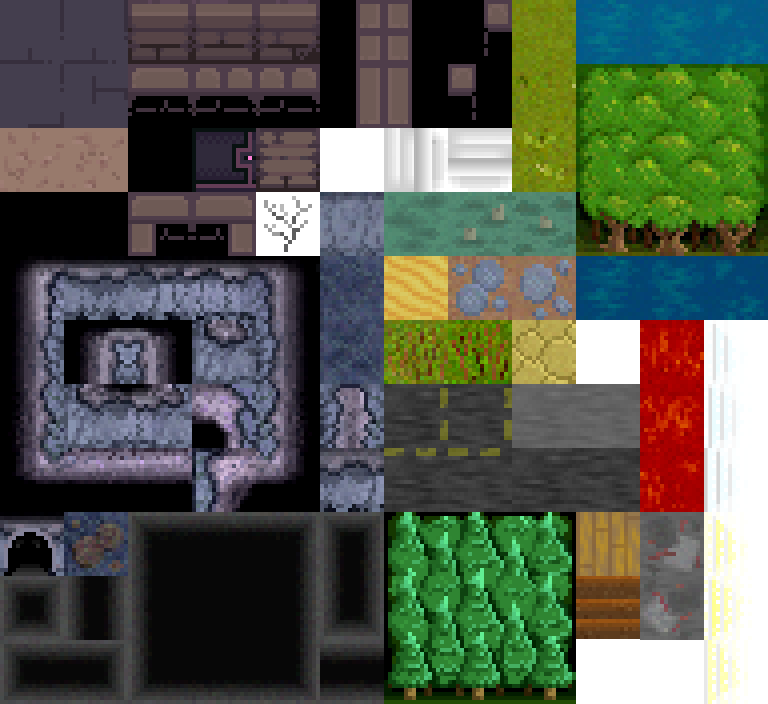
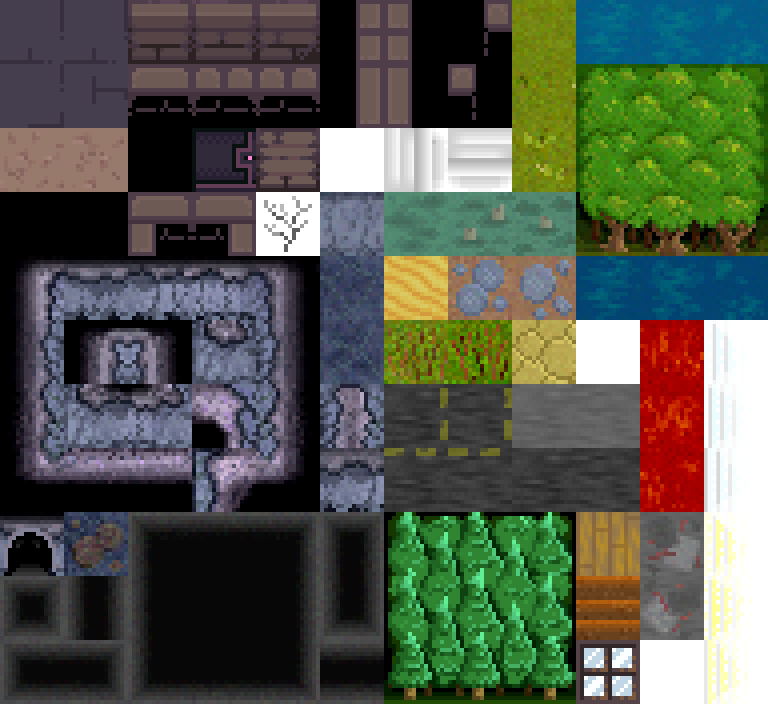
windows

Changed region(s): [[0.75, 0.8125, 0.8438, 1.0]]

diff --git a/src/main/kotlin/world/gen/cartos/WorldCarto.kt b/src/main/kotlin/world/gen/cartos/WorldCarto.kt
@@ -895,7 +895,7 @@ class WorldCarto(
 
     fun buildGarden(x: Int, y: Int, width: Int, height: Int) {
         val inVertRows = Dice.flip()
-        val gardenDensity = Dice.float(0.2f, 0.8f)
+        val gardenDensity = Dice.float(0.2f, 0.8f) * 5f
         for (tx in x0 + x..x0 + x + width - 1) {
             for (ty in y0 + y .. y0 + y + height - 1) {
                 flagsMap[tx-x0][ty-y0].add(CellFlag.NO_PLANTS)
@@ -928,17 +928,25 @@ class WorldCarto(
         } else {
             if (doorDir == SOUTH) y+height-2 else y+1
         }
+        var windowBlockerCount = Dice.range(3, 8)
         for (tx in x until x+width) {
             for (ty in y until y+height) {
                 if (tx == doorx && ty == doory) {
                     setTerrain(x0+tx, y0+ty, floorType)
-                    if (Dice.chance(0.8f)) spawnThing(x0+tx, y0+ty, WoodDoor())
+                    spawnThing(x0+tx, y0+ty, WoodDoor())
                     chunk.setRoofed(x0 + tx, y0 + ty, Chunk.Roofed.WINDOW)
                 } else if (tx == x || tx == x+width-1 || ty == y || ty == y+height-1) {
                     setTerrain(x0 + tx, y0 + ty, TEMP3)
                 } else if (tx == x+1 || tx == x+width-2 || ty == y+1 || ty == y+height-2) {
-                    setTerrain(x0 + tx, y0 + ty, wallType)
-                    chunk.setRoofed(x0 + tx, y0 + ty, Chunk.Roofed.INDOOR)
+                    if (windowBlockerCount < 1 && ((tx > x+1 && tx < x+width-2) || (ty > y+1 && ty < y+height-2))) {
+                        setTerrain(x0 + tx, y0 + ty, TERRAIN_WINDOWWALL)
+                        chunk.setRoofed(x0 + tx, y0 + ty, Chunk.Roofed.WINDOW)
+                        windowBlockerCount = Dice.range(4, 12)
+                    } else {
+                        setTerrain(x0 + tx, y0 + ty, wallType)
+                        chunk.setRoofed(x0 + tx, y0 + ty, Chunk.Roofed.INDOOR)
+                        windowBlockerCount--
+                    }
                 } else {
                     setTerrain(x0+tx, y0+ty, floorType)
                     chunk.setRoofed(x0 + tx, y0 + ty, Chunk.Roofed.INDOOR)
@@ -946,15 +954,15 @@ class WorldCarto(
             }
         }
         safeSetTerrain(x0 + doorx + doorDir.x, y0 + doory + doorDir.y, dirtType)
-        val plantDensity = Dice.float(0.2f, 0.7f)
+        val plantDensity = Dice.float(0.3f, 0.9f) * 3f
         forEachTerrain(TEMP3) { x,y ->
-            flagsMap[x-x0][y-y0].add(CellFlag.NO_PLANTS)
             getPlant(meta.biome, meta.habitat, 0.5f,
                 plantDensity, villagePlantSpawns)?.also { plant ->
                 spawnThing(x, y, plant)
             }
+            flagsMap[x-x0][y-y0].add(CellFlag.NO_PLANTS)
         }
-        fuzzTerrain(TEMP3, 0.4f, wallType)
+        fuzzTerrain(TEMP3, 0.4f, listOf(wallType, TERRAIN_WINDOWWALL))
         safeSetTerrain(x0 + doorx + doorDir.x, y0 + doory + doorDir.y, dirtType)
         safeSetTerrain(x0 + doorx + doorDir.x*2, y0 + doory + doorDir.y * 2, dirtType)
         swapTerrain(TEMP3, meta.biome.baseTerrain)

diff --git a/src/main/kotlin/world/gen/Metamap.kt b/src/main/kotlin/world/gen/Metamap.kt
@@ -493,8 +493,8 @@ object Metamap {
                             scratches[dx][dy].biome = Ruins
                             scratches[dx][dy].height = 1
 
-                            suggestedPlayerStart.x = xToChunkX(dx)
-                            suggestedPlayerStart.y = yToChunkY(dy)
+                            //suggestedPlayerStart.x = xToChunkX(dx)
+                            //suggestedPlayerStart.y = yToChunkY(dy)
                         }
                     }
                 }
@@ -754,8 +754,8 @@ object Metamap {
                                     scratches[x][y].title = Madlib.villageName()
                                     scratches[x][y].ruinedBuildings = 0
 
-                                    //suggestedPlayerStart.x = xToChunkX(x)
-                                    //suggestedPlayerStart.y = yToChunkY(y)
+                                    suggestedPlayerStart.x = xToChunkX(x)
+                                    suggestedPlayerStart.y = yToChunkY(y)
                                 }
                             }
                         }

diff --git a/src/main/kotlin/world/terrains/Walls.kt b/src/main/kotlin/world/terrains/Walls.kt
@@ -19,8 +19,9 @@ import world.level.Level
 sealed class Wall(
     type: Type,
     glyph: Glyph,
-    val damageToBreak: Float = 1f
-) : Terrain(type, glyph, false, false, true, false, dataType = Type.GENERIC_WALL) {
+    val damageToBreak: Float = 1f,
+    val overrideOpaque: Boolean = true,
+) : Terrain(type, glyph, false, false, overrideOpaque, false, dataType = Type.GENERIC_WALL) {
 
     @Serializable class Data(
         var damage: Float = 0f
@@ -93,6 +94,12 @@ object WoodWall : Wall(Type.TERRAIN_WOODWALL, Glyph.WOOD_WALL, 2f) {
     override fun bumpMsg() = "You bump into a wooden wall."
     override fun digResult() = Log()
     override fun digToFloorTerrain() = Type.TERRAIN_DIRT
+}
+
+object WindowWall : Wall(Type.TERRAIN_WINDOWWALL, Glyph.WINDOW, 1f, overrideOpaque = false) {
+    override fun name() = "window"
+    override fun bumpMsg() = "You can't fit through the window."
+    override fun isDiggable() = false
 }
 
 sealed class ForestWall(

diff --git a/src/main/kotlin/world/gen/cartos/Carto.kt b/src/main/kotlin/world/gen/cartos/Carto.kt
@@ -395,11 +395,17 @@ abstract class Carto(
         }
     }
 
-    protected fun fuzzTerrain(type: Terrain.Type, density: Float, exclude: Terrain.Type? = null) {
+    protected fun fuzzTerrain(type: Terrain.Type, density: Float) {
+        fuzzTerrain(type, density, listOf(null))
+    }
+    protected fun fuzzTerrain(type: Terrain.Type, density: Float, exclude: Terrain.Type?) {
+        fuzzTerrain(type, density, listOf(exclude))
+    }
+    protected fun fuzzTerrain(type: Terrain.Type, density: Float, excludeList: List<Terrain.Type?>?) {
         val adds = ArrayList<XY>()
         forEachTerrain(type) { x, y ->
             neighborsAt(x,y,CARDINALS) { nx, ny, terrain ->
-                if (terrain != type && (exclude == null || terrain != exclude)) {
+                if (terrain != type && (excludeList == null || !excludeList.contains(terrain))) {
                     if (Dice.chance(density)) adds.add(XY(nx,ny))
                 }
             }

diff --git a/src/main/kotlin/world/terrains/Terrain.kt b/src/main/kotlin/world/terrains/Terrain.kt
@@ -33,6 +33,7 @@ sealed class Terrain(
             Type.TERRAIN_WOODWALL -> WoodWall
             Type.TERRAIN_TEMPERATE_FORESTWALL -> TemperateForestWall
             Type.TERRAIN_PINE_FORESTWALL -> PineForestWall
+            Type.TERRAIN_WINDOWWALL -> WindowWall
             Type.TERRAIN_CAVEFLOOR -> CaveFloor
             Type.TERRAIN_STONEFLOOR -> StoneFloor
             Type.TERRAIN_WOODFLOOR -> WoodFloor
@@ -81,6 +82,7 @@ sealed class Terrain(
         TERRAIN_BRICKWALL,
         TERRAIN_CAVEWALL,
         TERRAIN_WOODWALL,
+        TERRAIN_WINDOWWALL,
         TERRAIN_TEMPERATE_FORESTWALL,
         TERRAIN_PINE_FORESTWALL,
         TERRAIN_STONEFLOOR,

diff --git a/src/main/kotlin/render/tilesets/TerrainTileSet.kt b/src/main/kotlin/render/tilesets/TerrainTileSet.kt
@@ -224,6 +224,7 @@ fun TerrainTileSet() =
         setTile(Glyph.CAVE_ROCKS, SimpleTile(this, 1, 8))
         setTile(Glyph.WOOD_FLOOR, SimpleTile(this, 9, 8))
         setTile(Glyph.WOOD_WALL, SimpleTile(this, 9, 9))
+        setTile(Glyph.WINDOW, SimpleTile(this, 9, 10))
 
         setTile(Glyph.RUBBLE, VariantsTile(this).apply {
             add(0.5f, 10, 8)

diff --git a/src/main/kotlin/render/tilesets/Glyph.kt b/src/main/kotlin/render/tilesets/Glyph.kt
@@ -32,6 +32,7 @@ enum class Glyph {
     WOOD_FLOOR,
     RUBBLE,
     WOOD_WALL,
+    WINDOW,
 
     WALL_DAMAGE,
     CURSOR,
